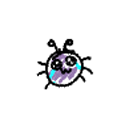
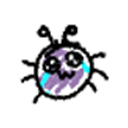
clone small 새 그림(더 커짐)에 맞춰 artHitbox 재측정 — l32t35r97b93 → l13t19r115b109
small.png를 다시 그려 벌레가 더 커졌다. 알파 실측(128 캔버스 기준):
  이전  잉크 65x58 @32,35   (캔버스 대비 0.508 x 0.453)
  이번  잉크 102x90 @13,19  (캔버스 대비 0.797 x 0.703)

l/t는 실측값 그대로(13/128, 19/128). r/b는 x0+width, y0+height로 잡았다
(마지막 잉크 픽셀의 "다음 경계" — artRect()의 w 계산이 (r-l)*e.w라 이 경계값이어야
실제 잉크 폭과 정확히 같아진다. l13+width102=115, t19+height90=109).

이제 그림 몸통(38px world)이 min_hitbox 바닥(45x45)에 근접해서, 바닥이 판정을
정하던 이전과 달리 그림 자체가 판정 크기에 가까워졌다 — 여전히 바닥이 이기지만
여백이 줄었다(스샷으로 확인, 히트박스 사각형이 몸통에 훨씬 밭게 붙음).

검증(실제 마우스 클릭):
  판정 중심 클릭            → 죽음
  min_hitbox(45x45) 바깥 클릭 → 생존(과잉 판정 없음)
  스프라이트 박스 모서리(여백) 클릭 → 죽음(바닥이 의도대로 덮음 — 작은 조각을
    누르기 쉽게 하려는 min_hitbox 설계 그대로)

big/mid는 손대지 않았다.

Changed region(s): [[0.1562, 0.1875, 0.875, 0.8438]]

diff --git a/game/js/config.js b/game/js/config.js
@@ -119,7 +119,7 @@ export const config = {
       // 그림이 49x44뿐이라 큰 판정을 쓰면 빈 공간을 눌러도 죽어 너무 쉬워진다.
       'clone:0': { l: 1 / 128, t: 17 / 128, r: 126 / 128, b: 116 / 128 }, // big
       'clone:1': { l: 30 / 128, t: 20 / 128, r: 110 / 128, b: 105 / 128 }, // mid
-      'clone:2': { l: 32 / 128, t: 35 / 128, r: 97 / 128, b: 93 / 128 }, // small
+      'clone:2': { l: 13 / 128, t: 19 / 128, r: 115 / 128, b: 109 / 128 }, // small
     },
     // 위 판정 사각형 사방에 더하는 여유(원본 캔버스 대비 비율). 그림에 딱 맞추면
     // 가장자리가 아슬아슬해서 누르기 답답하다 — 3px(=3/128) 정도만 넉넉히 준다.
